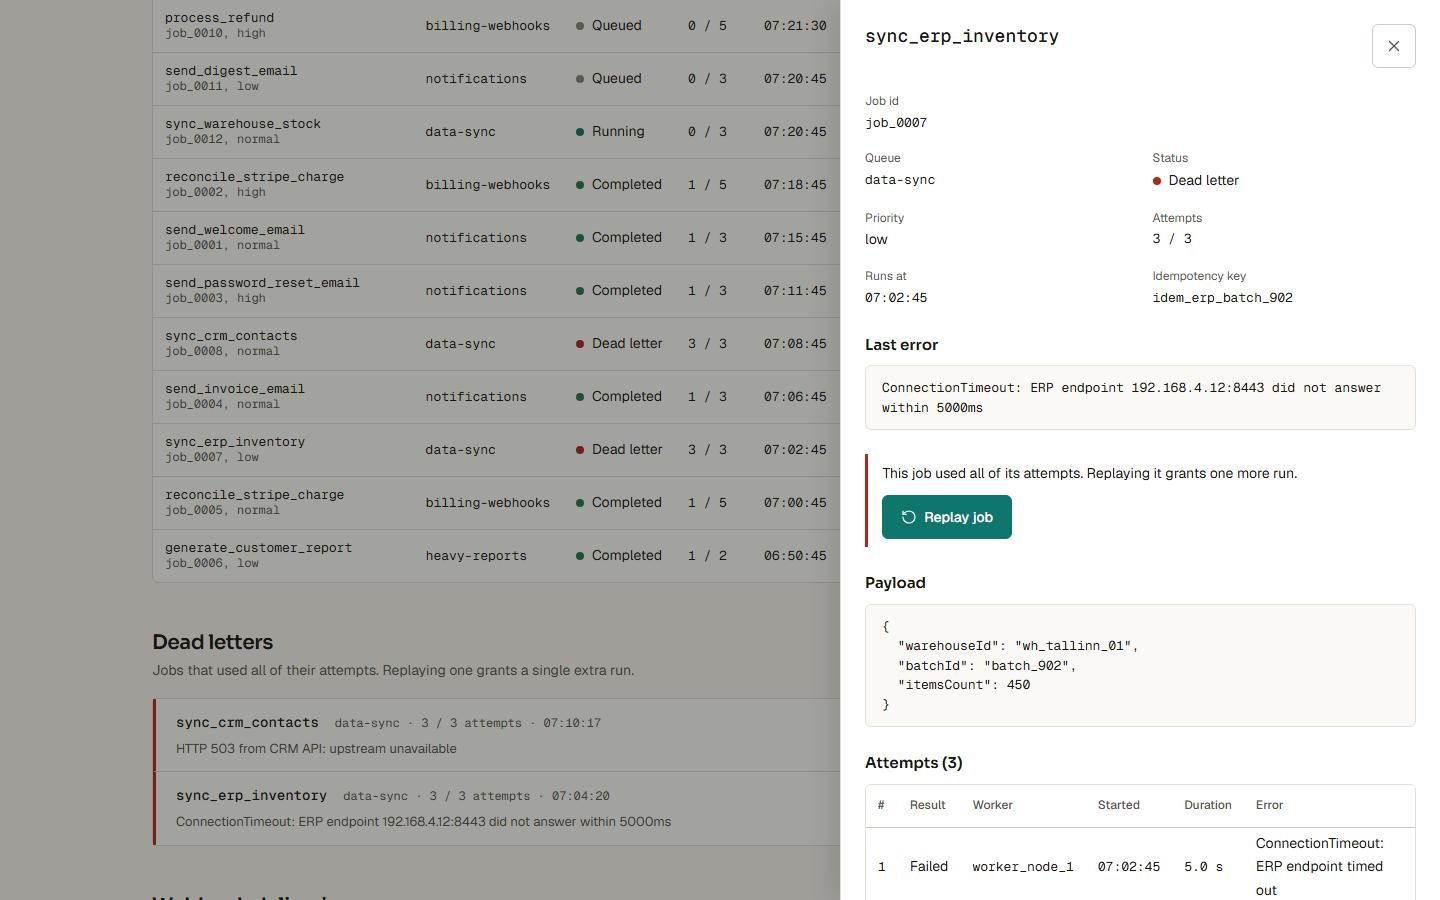
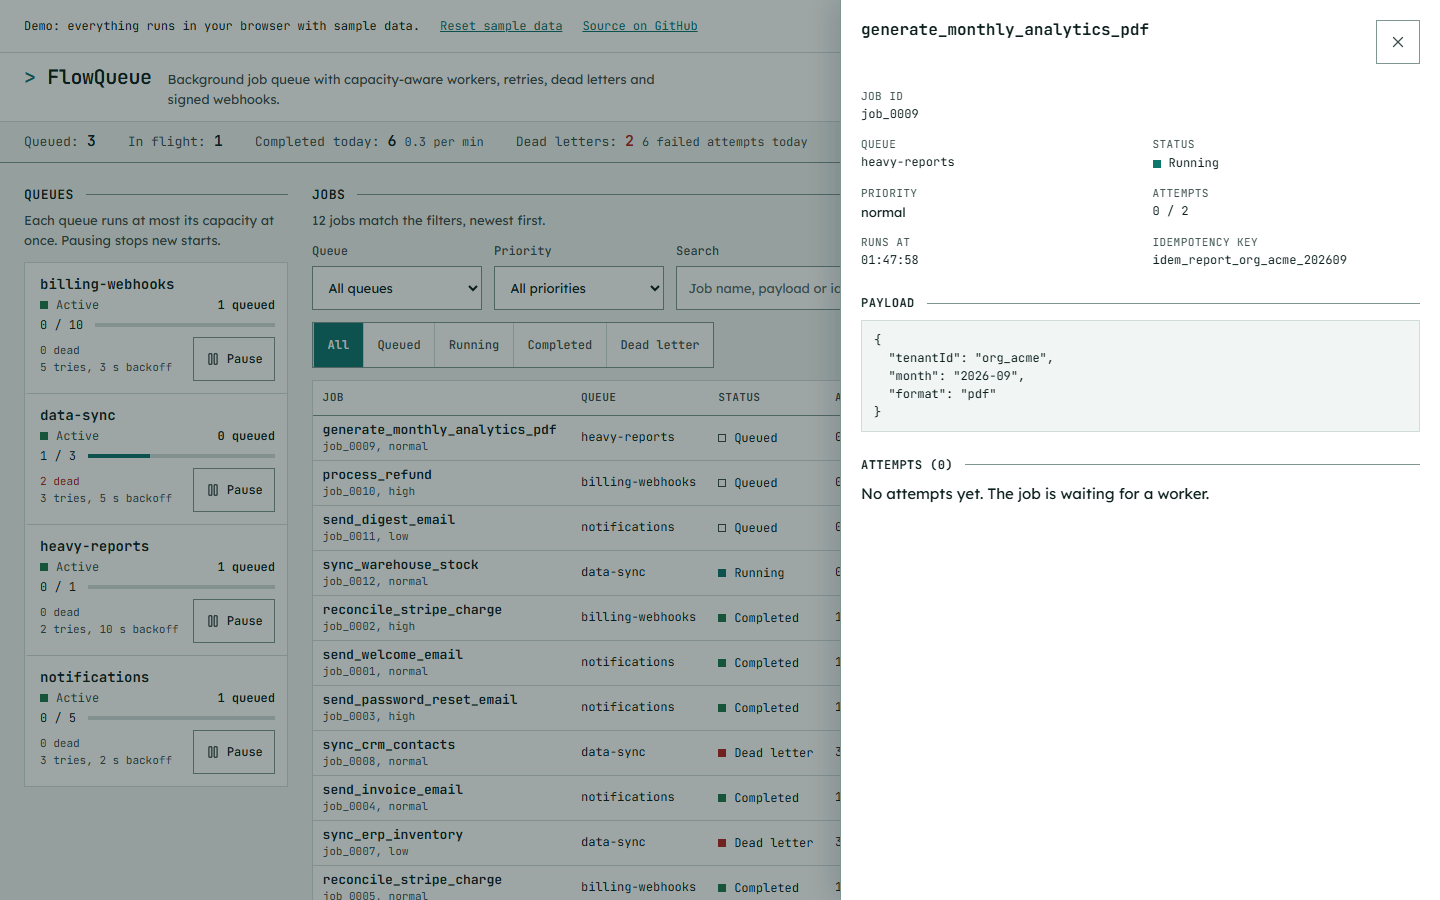
Add arrow key navigation to the tabs and update the interface docs

diff --git a/client/src/App.css b/client/src/App.css
@@ -223,7 +223,7 @@ textarea {
   padding-block: 1.5rem 3rem;
   padding-inline: var(--page-pad);
   display: grid;
-  grid-template-columns: 248px minmax(0, 1fr) 300px;
+  grid-template-columns: 264px minmax(0, 1fr) 300px;
   grid-template-areas: "alert alert alert" "rail work log";
   gap: 0 1.5rem;
   align-items: start;
@@ -418,17 +418,19 @@ textarea {
 
 .queue-tab-foot {
   display: flex;
-  flex-wrap: wrap;
   align-items: center;
-  gap: 0.25rem 0.75rem;
+  justify-content: space-between;
+  gap: 0.5rem;
   padding: 0 var(--step) var(--step);
   font-family: var(--font-mono);
   font-size: 11px;
   color: var(--ink-2);
 }
 
-.queue-tab-foot .btn {
-  margin-left: auto;
+.queue-tab-facts {
+  display: flex;
+  flex-direction: column;
+  min-width: 0;
 }
 
 /* Tables */
@@ -453,13 +455,13 @@ textarea {
   letter-spacing: 0.04em;
   text-transform: uppercase;
   color: var(--ink-2);
-  padding: 0.5rem var(--step);
+  padding: 0.5rem 0.6rem;
   border-bottom: 1px solid var(--rule-strong);
   white-space: nowrap;
 }
 
 .data-table td {
-  padding: 0 var(--step);
+  padding: 0 0.6rem;
   border-bottom: 1px solid var(--rule);
   vertical-align: middle;
 }
@@ -507,7 +509,12 @@ textarea {
   cursor: pointer;
 }
 
+.name-btn {
+  max-width: 300px;
+}
+
 .name-btn .primary {
+  overflow-wrap: anywhere;
   font-family: var(--font-mono);
   font-size: 13px;
   font-weight: 600;
@@ -540,26 +547,31 @@ textarea {
   width: 8px;
   height: 8px;
   flex-shrink: 0;
-  background-color: var(--ink-3);
+  background-color: var(--surface);
+  border: 1px solid var(--ink-2);
 }
 
 .dot-processing {
   background-color: var(--accent);
+  border-color: var(--accent);
 }
 
 .dot-completed,
 .dot-active {
   background-color: var(--ok);
+  border-color: var(--ok);
 }
 
 .dot-paused,
 .dot-warn {
   background-color: var(--warn);
+  border-color: var(--warn);
 }
 
 .dot-dlq,
 .dot-bad {
   background-color: var(--bad);
+  border-color: var(--bad);
 }
 
 /* Flat meter */
@@ -973,9 +985,9 @@ textarea {
 
 .event {
   display: grid;
-  grid-template-columns: 4.5rem 3.5rem minmax(0, 1fr);
-  gap: 0 0.5rem;
-  padding: 0.4rem var(--step);
+  grid-template-columns: auto minmax(0, 1fr);
+  gap: 0 0.75rem;
+  padding: 0.5rem var(--step);
   border-bottom: 1px solid var(--rule);
 }
 
@@ -992,6 +1004,7 @@ textarea {
 }
 
 .event-text {
+  grid-column: 1 / -1;
   overflow-wrap: anywhere;
 }
 

diff --git a/client/src/App.tsx b/client/src/App.tsx
@@ -113,6 +113,18 @@ export const App: React.FC = () => {
     queueSelectRef.current?.focus();
   }, [enqueueRequests]);
 
+  const handleTabKeys = (e: React.KeyboardEvent) => {
+    const keys = ['ArrowLeft', 'ArrowRight', 'Home', 'End'];
+    if (!keys.includes(e.key)) return;
+    e.preventDefault();
+    const ids = panels.map((p) => p.id);
+    const at = ids.indexOf(panel);
+    const next =
+      e.key === 'Home' ? 0 : e.key === 'End' ? ids.length - 1 : (at + (e.key === 'ArrowRight' ? 1 : -1) + ids.length) % ids.length;
+    setPanel(ids[next]);
+    document.getElementById(`tab-${ids[next]}`)?.focus();
+  };
+
   const panels: { id: PanelId; label: string }[] = [
     { id: 'dead', label: `Dead letters (${deadLetters.length})` },
     { id: 'webhooks', label: `Webhooks (${webhookSubs.length})` },
@@ -182,7 +194,7 @@ export const App: React.FC = () => {
           </section>
 
           <section className="under-tabs" aria-label="Dead letters, webhooks and enqueue">
-            <div className="tabbar" role="tablist" aria-label="Job tools">
+            <div className="tabbar" role="tablist" aria-label="Job tools" onKeyDown={handleTabKeys}>
               {panels.map((p) => (
                 <button
                   key={p.id}
@@ -191,6 +203,7 @@ export const App: React.FC = () => {
                   id={`tab-${p.id}`}
                   aria-selected={panel === p.id}
                   aria-controls={`panel-${p.id}`}
+                  tabIndex={panel === p.id ? 0 : -1}
                   className="tab"
                   onClick={() => setPanel(p.id)}
                 >

diff --git a/client/src/test/App.test.tsx b/client/src/test/App.test.tsx
@@ -452,3 +452,22 @@ describe('FlowQueue dashboard', () => {
     });
   });
 });
+
+describe('job tool tabs', () => {
+  it('moves between tabs with the arrow keys', async () => {
+    vi.mocked(api.getMetrics).mockResolvedValue(metrics);
+    vi.mocked(api.getQueues).mockResolvedValue(queues);
+    vi.mocked(api.listJobs).mockImplementation(jobsFor as any);
+    vi.mocked(api.getWebhookSubscriptions).mockResolvedValue([subscription]);
+    vi.mocked(api.getWebhookDeliveries).mockResolvedValue([delivery]);
+    render(<App />);
+    await screen.findByText('send_welcome_email');
+    const first = screen.getByRole('tab', { name: /Dead letters/ });
+    first.focus();
+    fireEvent.keyDown(first, { key: 'ArrowRight' });
+    expect(screen.getByRole('tab', { name: /Webhooks/ })).toHaveAttribute('aria-selected', 'true');
+    expect(screen.getByRole('tab', { name: /Webhooks/ })).toHaveFocus();
+    fireEvent.keyDown(screen.getByRole('tab', { name: /Webhooks/ }), { key: 'End' });
+    expect(screen.getByRole('tab', { name: 'Enqueue' })).toHaveAttribute('aria-selected', 'true');
+  });
+});

diff --git a/client/src/components/QueueTabs.tsx b/client/src/components/QueueTabs.tsx
@@ -49,8 +49,10 @@ export const QueueTabs: React.FC<QueueTabsProps> = ({ queues, selectedQueueId, o
               </span>
             </button>
             <div className="queue-tab-foot">
-              <span className={q.dlq_jobs > 0 ? 'text-bad' : undefined}>{`${q.dlq_jobs} dead`}</span>
-              <span>{`${q.max_retries} tries, ${q.backoff_base_sec} s backoff`}</span>
+              <span className="queue-tab-facts">
+                <span className={q.dlq_jobs > 0 ? 'text-bad' : undefined}>{`${q.dlq_jobs} dead`}</span>
+                <span>{`${q.max_retries} tries, ${q.backoff_base_sec} s backoff`}</span>
+              </span>
               <button
                 className="btn btn-secondary btn-compact"
                 onClick={() => onTogglePause(q.id, q.is_paused)}

diff --git a/README.md b/README.md
@@ -14,7 +14,7 @@ The demo runs entirely in your browser. A small in-page engine applies the same 
 
 ## Screenshot
 
-![Dashboard with the stats strip, queues table, jobs table and enqueue form](docs/screenshots/01-dashboard.png)
+![Operator console with queue tabs on the left, the jobs table in the middle and the event log on the right](docs/screenshots/01-dashboard.png)
 
 More screenshots: [the job inspector](docs/screenshots/02-job-inspector.png), [dead letters and webhook deliveries](docs/screenshots/03-dead-letters-webhooks.png), [the dashboard at phone width](docs/screenshots/04-mobile.png).
 
@@ -27,7 +27,7 @@ More screenshots: [the job inspector](docs/screenshots/02-job-inspector.png), [d
 - **Worker leases.** A reserved job holds a lease. If the worker dies, the next poll returns the job to the queue and counts the lost run as a failed attempt.
 - **Idempotency keys.** Enqueueing with a key that already exists returns the existing job instead of creating a second one.
 - **Signed webhooks.** `job.completed`, `job.failed` and `job.dlq` are posted to subscribed endpoints with an `X-FlowQueue-Signature` HMAC-SHA256 header. Every delivery is logged with status, duration and signature.
-- **Dashboard.** A stats strip, a queues table with in-flight counts against capacity, a jobs table with filters and search, an enqueue form, dead letters, webhook deliveries and a job inspector with payload, result and attempts.
+- **Console.** A one-line telemetry bar, vertical queue tabs with depth, in-flight counts against capacity and pause controls, a jobs table with filters and search, a live event log (newest first), tabs under the table for dead letters, webhook deliveries and the enqueue form, and a job inspector with payload, result and attempts. Set in JetBrains Mono and Lexend with square corners and hairline rules.
 - **Demo mode** for GitHub Pages that needs no server.
 
 ## Getting started
@@ -125,7 +125,7 @@ server/src/
   lib/                  input validation, errors, repo path lookup
 server/test/            API, worker, lease, webhook, shared-logic and static-serving tests
 client/src/
-  components/           header, stats strip, queues and jobs tables, enqueue form, dead letters,
+  components/           header, telemetry bar, queue tabs, jobs table, event log, enqueue form, dead letters,
                         webhook panel, job inspector, demo banner
   services/             api.ts (real), demoApi.ts (browser), index.ts (chooses by build mode)
   demo/engine.ts        in-browser queue engine for the Pages build

diff --git a/CHANGELOG.md b/CHANGELOG.md
@@ -4,6 +4,11 @@ All notable changes to this project are documented in this file.
 
 The format is based on [Keep a Changelog](https://keepachangelog.com/en/1.1.0/).
 
+## [Unreleased]
+
+### Changed
+- New visual identity: the dashboard is now an operator console. Queues are vertical tabs on the left, the selected queue's jobs fill the middle, and a newest-first event log runs down the right. Dead letters, webhook deliveries and the enqueue form moved into tabs under the jobs table, and the stats strip became a single telemetry line. Text is set in JetBrains Mono and Lexend on a pale green-grey page with square corners, hairline rules and square status marks.
+
 ## [1.0.0] - 2026-10-02
 
 ### Added
